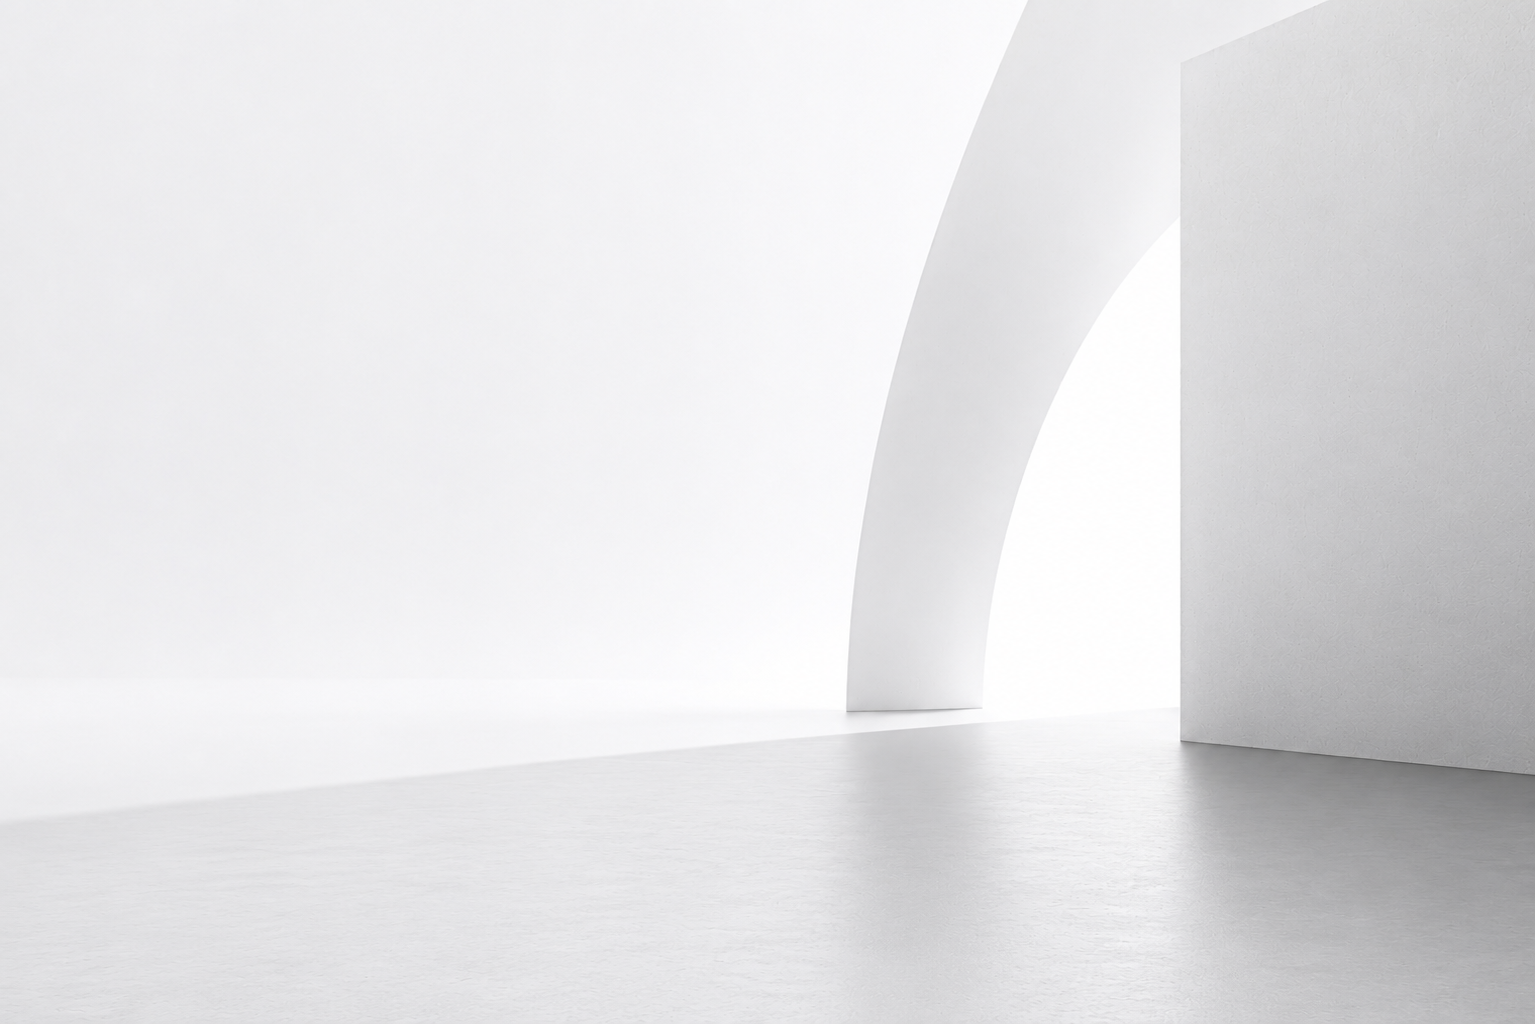
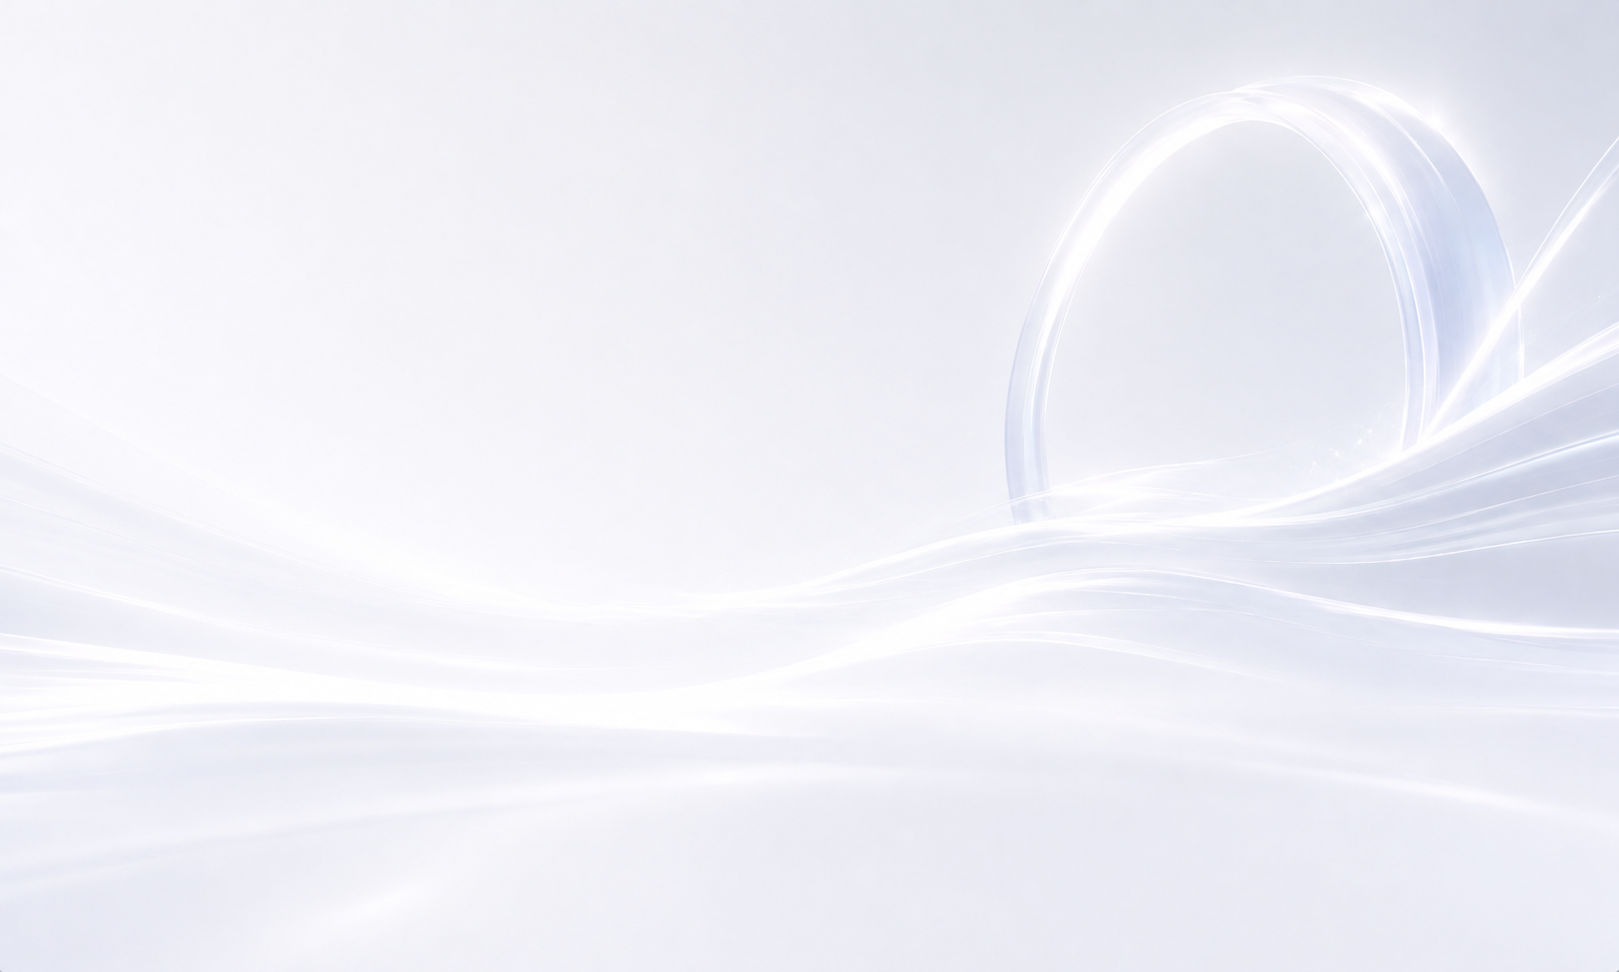
chore(homepage): update owner hero background (background.png v9)
Deploy new homepage hero backdrop to production; bump cache version so CDN
and browsers fetch the replaced asset.

diff --git a/lib/studioos/home-hero-space-asset.ts b/lib/studioos/home-hero-space-asset.ts
@@ -8,7 +8,7 @@ const PUBLIC_HERO_2X_PATH = "/images/[email redacted]";
 const HERO_ASSET_VERSION =
   process.env.NEXT_PUBLIC_HERO_ASSET_VERSION?.trim() ||
   process.env.VERCEL_GIT_COMMIT_SHA?.slice(0, 8) ||
-  "4";
+  "9";
 
 let hero2xAvailable: boolean | null = null;
 